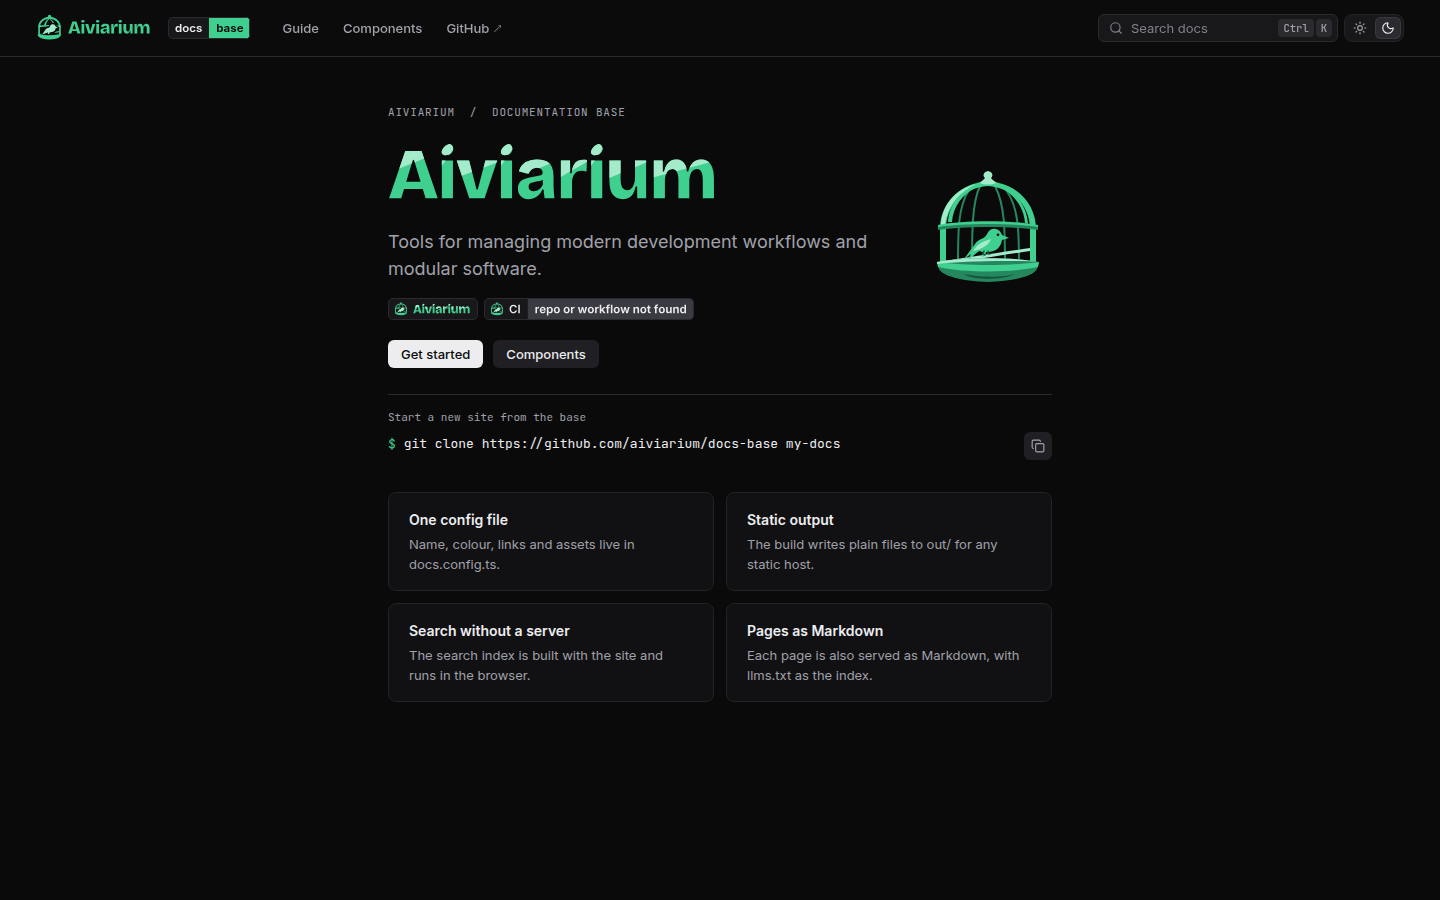
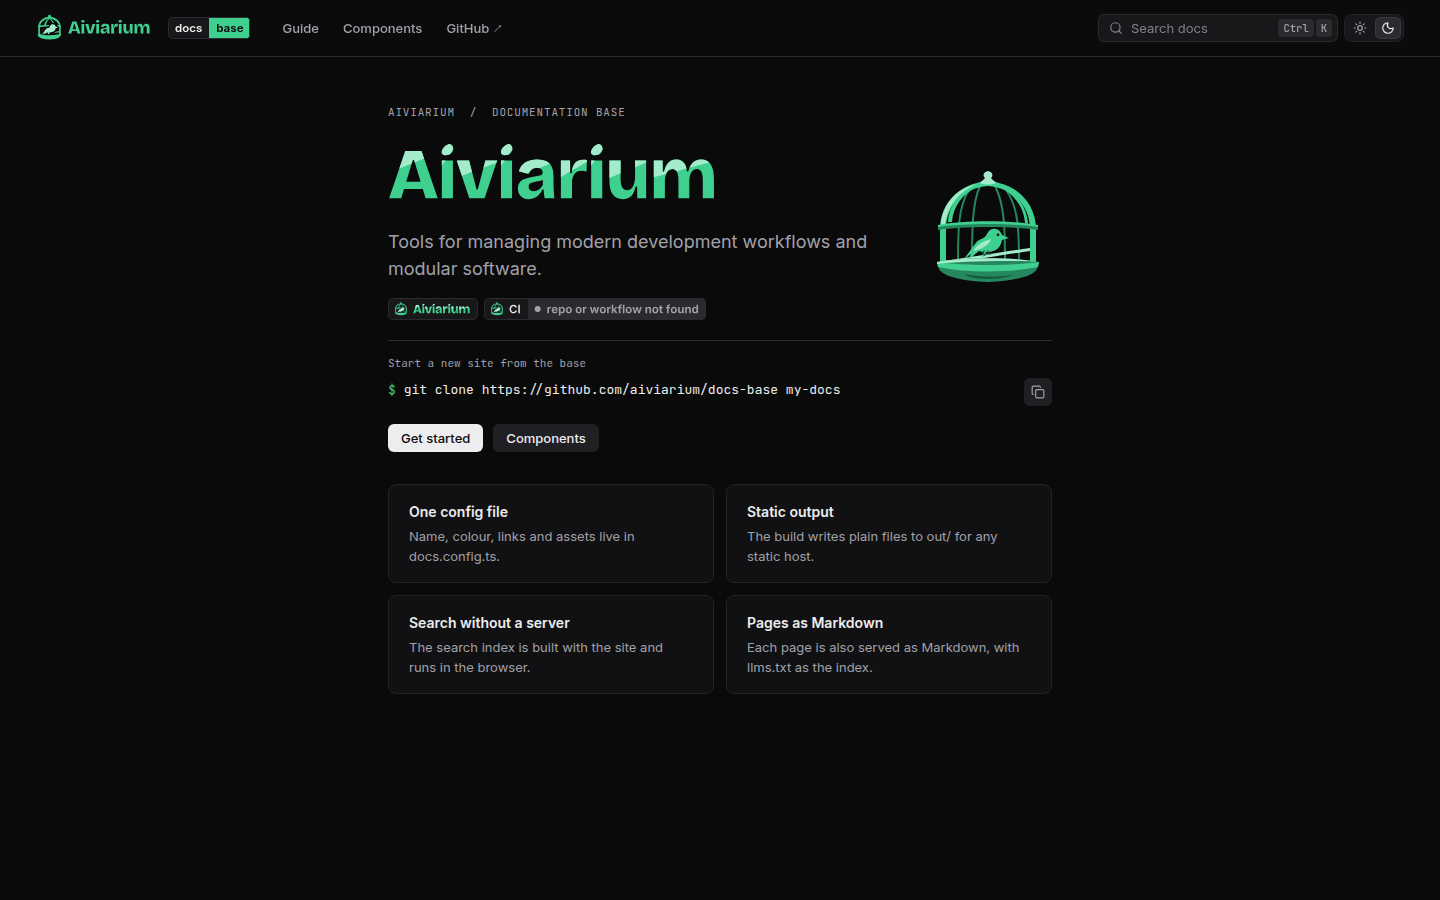
feat(landing): put the buttons below the install command
Assisted-by: Claude:claude-opus-5-5

diff --git a/src/app/(home)/page.tsx b/src/app/(home)/page.tsx
@@ -44,10 +44,6 @@ export default function HomePage() {
           </div>
           <ThemedImg src={config.assets.icon} alt="" width={128} height={128} className="hero-icon" />
         </div>
-        <div className="actions">
-          <Action {...primary} primary />
-          <Action {...secondary} />
-        </div>
         <div className="install">
           <small>{config.install.label}</small>
           <div className="install-line">
@@ -59,6 +55,10 @@ export default function HomePage() {
             </code>
             <CopyButton text={config.install.command} />
           </div>
+        </div>
+        <div className="actions">
+          <Action {...primary} primary />
+          <Action {...secondary} />
         </div>
         {config.features.length > 0 && (
           <div className="cards">

diff --git a/src/app/global.css b/src/app/global.css
@@ -666,10 +666,11 @@ div:has(> [role='tablist']) > [role='tabpanel'] {
   display: flex;
   flex-wrap: wrap;
   gap: 10px;
+  margin-top: 18px;
 }
 .install {
   border-top: 1px solid var(--line);
-  margin-top: 26px;
+  margin-top: 20px;
   padding-top: 14px;
   display: grid;
   gap: 6px;
